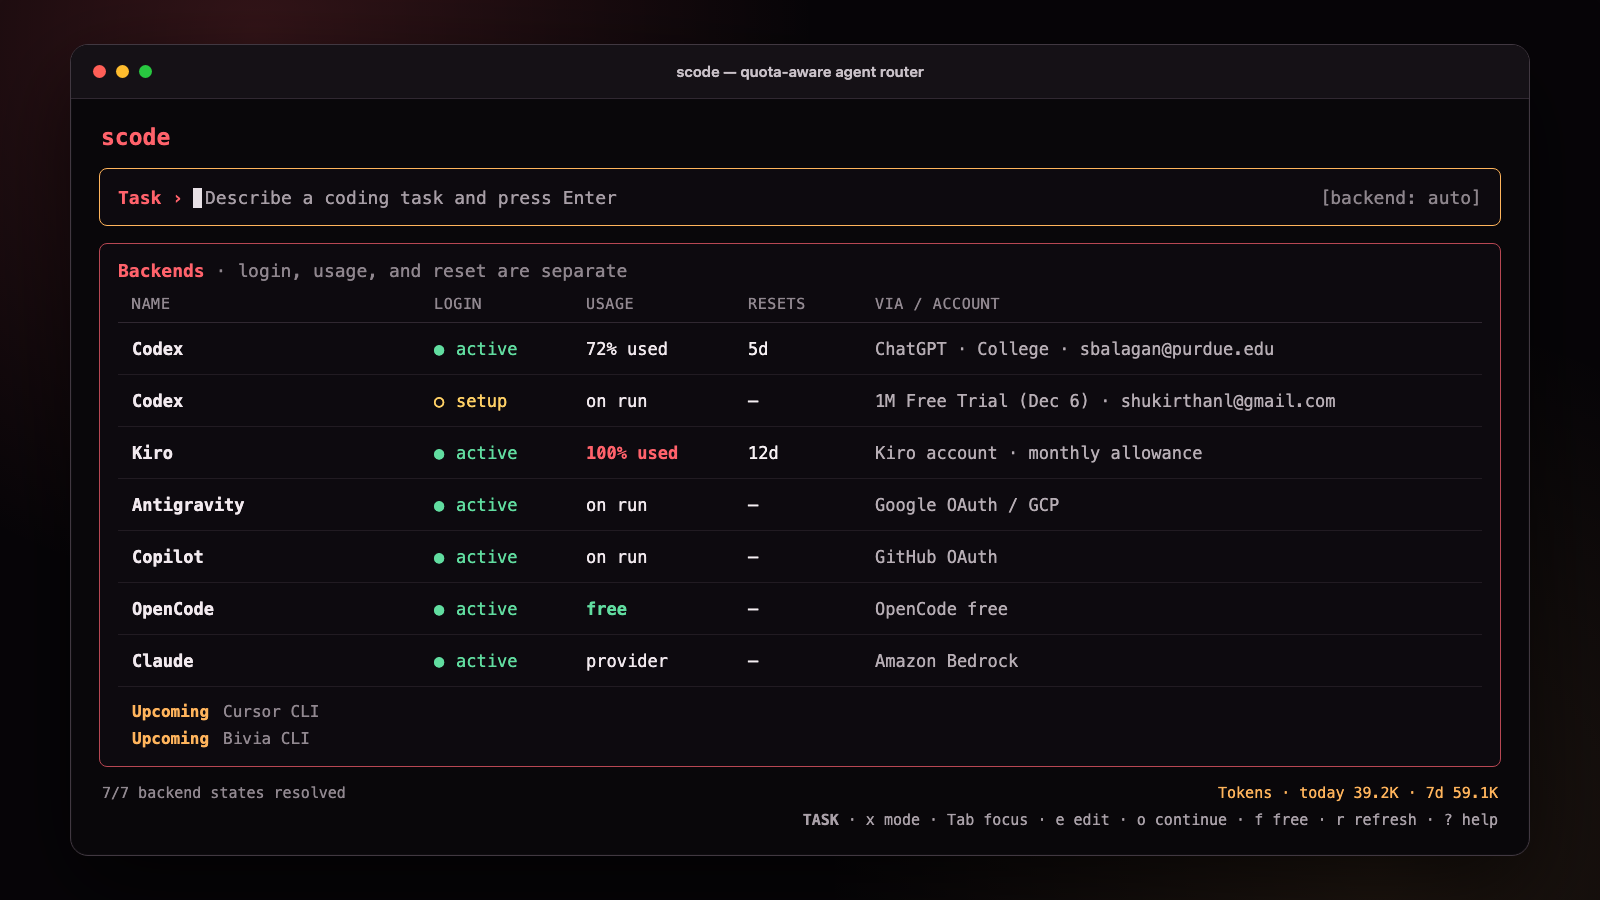
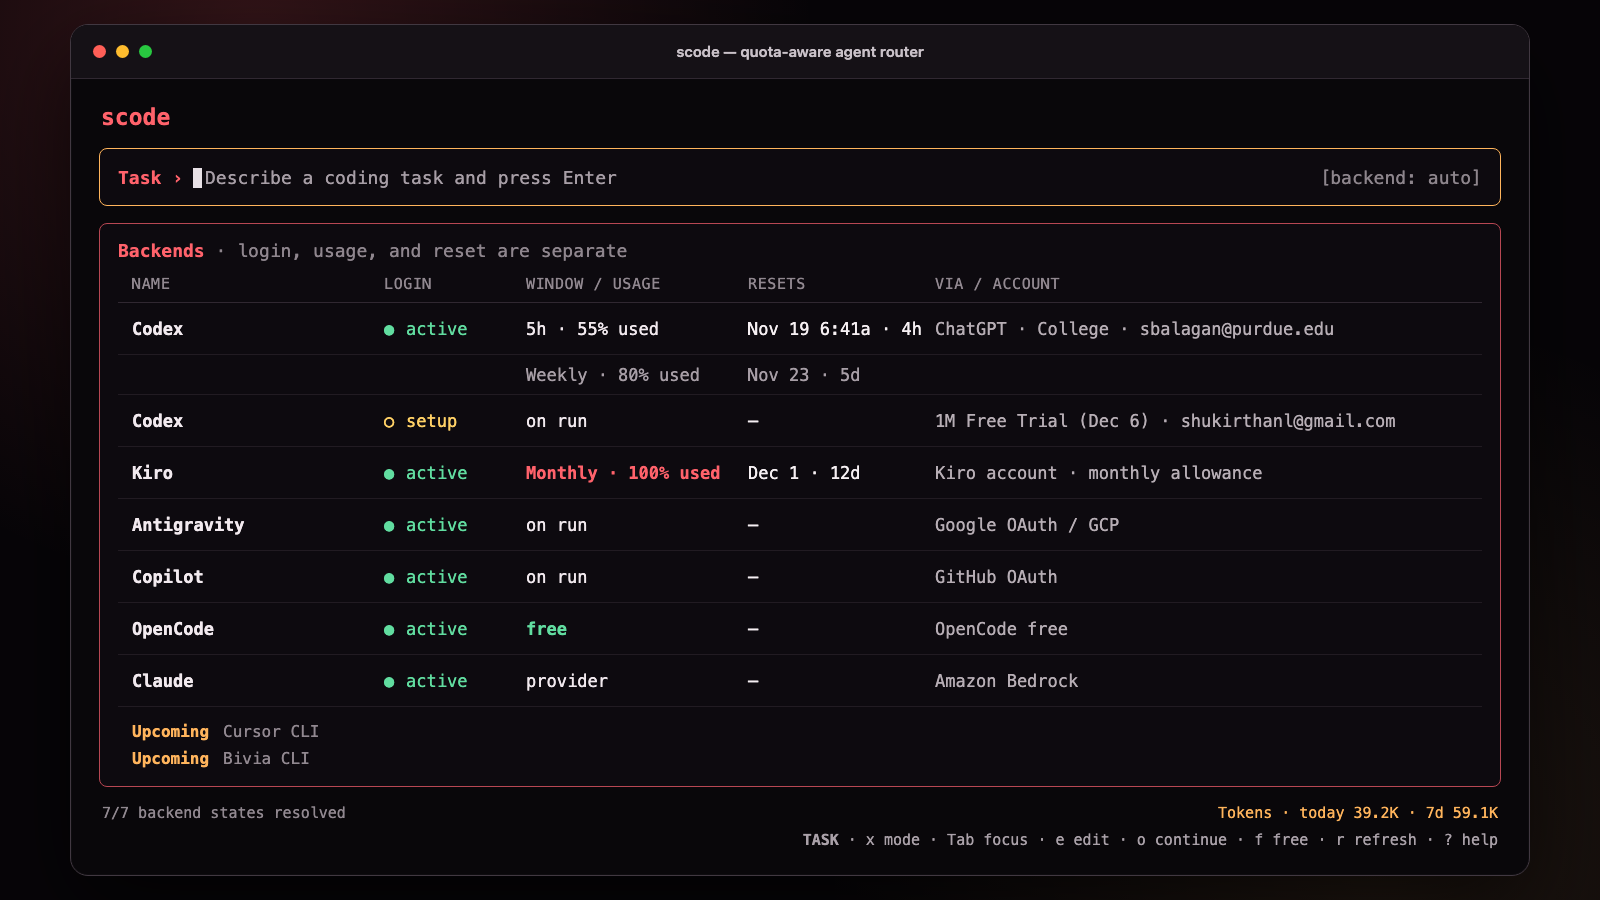
Show quota window reset dates

diff --git a/src/tui/BackendsPane.tsx b/src/tui/BackendsPane.tsx
@@ -1,17 +1,8 @@
 import React from 'react';
 import { Box, Text } from 'ink';
 import type { BackendId, BackendSnapshot } from '../core/types.js';
+import { displayQuotaWindows } from '../core/quotaDisplay.js';
 import type { TuiTheme } from './theme.js';
-
-function resetLabel(resetsAt: string | null): string {
-  if (!resetsAt) return '';
-  const ms = Date.parse(resetsAt) - Date.now();
-  if (Number.isNaN(ms)) return '';
-  if (ms <= 0) return 'reset';
-  const hours = Math.floor(ms / 3_600_000);
-  const minutes = Math.floor((ms % 3_600_000) / 60_000);
-  return hours > 0 ? `${hours}h${minutes > 0 ? `${minutes}m` : ''}` : `${Math.max(1, minutes)}m`;
-}
 
 function usageLabel(backend: BackendSnapshot, used: number | null): string {
   if (backend.status === 'disabled') return '—';
@@ -34,20 +25,25 @@ export function BackendsPane({ backends, theme, wide = false, selectedBackend }:
   wide?: boolean;
   selectedBackend?: BackendId;
 }) {
-  const compact = !wide;
+  // A full-width pane can still be too narrow for five readable columns.
+  // Fall back to the deliberately stacked layout instead of letting Ink wrap
+  // provider/account text at arbitrary points.
+  const terminalColumns = process.stdout.columns || 80;
+  const compact = !wide || terminalColumns < 110;
   return (
     <Box borderStyle="round" borderColor={theme.border} flexDirection="column" paddingX={1} width={wide ? '100%' : '50%'}>
       <Text bold color={theme.primary}>Backends <Text dimColor>· login and usage are separate</Text></Text>
       <Text dimColor>{compact
-        ? `  ${'Name'.padEnd(13)} ${'Login'.padEnd(8)} Usage / reset`
-        : `  ${'Name'.padEnd(16)} ${'Login'.padEnd(12)} ${'Usage'.padEnd(9)} ${'Resets'.padEnd(8)} Via / account`}</Text>
+        ? `  ${'Name'.padEnd(13)} ${'Login'.padEnd(8)} Window / usage / reset`
+        : `  ${'Name'.padEnd(14)} ${'Login'.padEnd(10)} ${'Window / usage'.padEnd(15)} ${'Resets'.padEnd(20)} Via / account`}</Text>
       {backends.map((backend) => {
         const used = backend.quota.remainingFraction === null ? null : 1 - backend.quota.remainingFraction;
         const remaining = usageLabel(backend, used);
+        const windows = displayQuotaWindows(backend);
+        const firstWindow = windows[0];
         const color = backend.status === 'disabled' ? theme.disabled
           : backend.status === 'available' ? theme.success
             : backend.status === 'cooling-down' ? theme.cooling : theme.warning;
-        const reset = resetLabel(backend.quota.resetsAt);
         const context = backend.id === 'kiro' ? 'monthly'
           : backend.status === 'disabled' ? backend.note : undefined;
         const auth = [backend.authProvider, backend.accountLabel, context].filter(Boolean).join(' · ');
@@ -58,16 +54,24 @@ export function BackendsPane({ backends, theme, wide = false, selectedBackend }:
             {compact ? (
               <>
                 <Text color={selected ? theme.accent : color}>
-                  {selected ? '› ' : '  '}{name.slice(0, 13).padEnd(13)} {loginLabel(backend).replace('● ', '').replace('○ ', '').slice(0, 8).padEnd(8)} {remaining} / {reset || '—'}
+                  {selected ? '› ' : '  '}{name.slice(0, 13).padEnd(13)} {loginLabel(backend).replace('● ', '').replace('○ ', '').slice(0, 8).padEnd(8)} {firstWindow ? `${firstWindow.label} ${firstWindow.usage} / ${firstWindow.reset}` : `${remaining} / —`}
                 </Text>
-                <Text dimColor>    {(auth || backend.note || '—').slice(0, Math.max(12, Math.floor((process.stdout.columns || 80) / 2) - 8))}</Text>
+                {windows.slice(1).map((window) => (
+                  <Text key={`${backend.id}-${window.label}`} dimColor>    {' '.repeat(18)}{window.label} {window.usage} / {window.reset}</Text>
+                ))}
+                <Text dimColor>    {(auth || backend.note || '—').slice(0, Math.max(12, Math.floor(terminalColumns / (wide ? 1 : 2)) - 8))}</Text>
               </>
             ) : (
               <Text color={selected ? theme.accent : color}>
-                {selected ? '› ' : '  '}{name.slice(0, 16).padEnd(16)} {loginLabel(backend).padEnd(12)} {remaining.padEnd(9)} {(reset || '—').padEnd(8)}
-                <Text dimColor>{(auth || backend.note || '—').slice(0, 25)}{backend.quota.source === 'manual' ? ' · manual' : ''}</Text>
+                {selected ? '› ' : '  '}{name.slice(0, 14).padEnd(14)} {loginLabel(backend).padEnd(10)} {(firstWindow ? `${firstWindow.label} ${firstWindow.usage}` : remaining).padEnd(15)} {(firstWindow?.reset ?? '—').padEnd(20)}{' '}
+                <Text dimColor>{(auth || backend.note || '—').slice(0, Math.max(14, terminalColumns - 65))}{backend.quota.source === 'manual' ? ' · manual' : ''}</Text>
               </Text>
             )}
+            {!compact && windows.slice(1).map((window) => (
+              <Text key={`${backend.id}-${window.label}`} dimColor>
+                {'  '}{''.padEnd(14)} {''.padEnd(10)} {`${window.label} ${window.usage}`.padEnd(15)} {window.reset.padEnd(20)}
+              </Text>
+            ))}
           </Box>
         );
       })}

diff --git a/src/cli.ts b/src/cli.ts
@@ -24,6 +24,7 @@ import { runLearn } from './core/learn.js';
 import { installForBackend, toolsStatus } from './mcp/install.js';
 import { attachRun, listRunRecords } from './core/runs.js';
 import { section, table, ui } from './format.js';
+import { displayQuotaWindows } from './core/quotaDisplay.js';
 
 export type Command =
   | { name: 'tui' }
@@ -140,19 +141,7 @@ function parseBackendArgs(rest: string[]): Extract<Command, { name: 'backend' }>
   return command;
 }
 
-function relativeReset(value: string | null): string {
-  if (!value) return '—';
-  const ms = Date.parse(value) - Date.now();
-  if (!Number.isFinite(ms)) return '—';
-  if (ms <= 0) return 'now';
-  const minutes = Math.ceil(ms / 60_000);
-  if (minutes < 60) return `${minutes}m`;
-  const hours = Math.floor(minutes / 60);
-  if (hours < 48) return `${hours}h ${minutes % 60}m`;
-  return `${Math.ceil(hours / 24)}d`;
-}
-
-function snapshotRow(item: BackendSnapshot): string[] {
+function snapshotRows(item: BackendSnapshot): string[][] {
   const used = item.quota.remainingFraction === null ? null : 1 - item.quota.remainingFraction;
   const usage = item.status === 'disabled' ? '—'
     : used !== null ? `${Math.round(used * 100)}% used`
@@ -165,7 +154,15 @@ function snapshotRow(item: BackendSnapshot): string[] {
   const context = item.id === 'kiro' ? 'monthly allowance'
     : item.status === 'disabled' ? item.note : undefined;
   const via = [item.authProvider, item.accountLabel, context].filter(Boolean).join(' · ') || item.note || '—';
-  return [item.displayName ?? item.id, login, usage, relativeReset(item.quota.resetsAt), via];
+  const windows = displayQuotaWindows(item);
+  if (windows.length === 0) return [[item.displayName ?? item.id, login, usage, '—', via]];
+  return windows.map((window, index) => [
+    index === 0 ? item.displayName ?? item.id : '',
+    index === 0 ? login : '',
+    `${window.label} ${window.usage}`,
+    window.reset,
+    index === 0 ? via : '',
+  ]);
 }
 
 function parseGraphArgs(rest: string[]): Extract<Command, { name: 'graph' }> {
@@ -469,10 +466,11 @@ export async function runHeadless(command: Exclude<Command, { name: 'tui' }>): P
   const snapshots = await backendSnapshots({ refresh: command.name === 'status' });
   if (command.name === 'status') {
     console.log(section('Backend status', 'login, usage, and reset are separate signals'));
-    const lines = table(['BACKEND', 'LOGIN', 'USAGE', 'RESETS', 'VIA / ACCOUNT'], snapshots.map(snapshotRow));
+    const statusRows = snapshots.flatMap((snapshot) => snapshotRows(snapshot).map((row) => ({ row, loginStatus: snapshot.loginStatus })));
+    const lines = table(['BACKEND', 'LOGIN', 'WINDOW / USAGE', 'RESETS', 'VIA / ACCOUNT'], statusRows.map(({ row }) => row));
     console.log(lines.map((line, index) => {
       if (index < 2) return line;
-      const login = snapshots[index - 2]?.loginStatus;
+      const login = statusRows[index - 2]?.loginStatus;
       return login === 'active' ? ui.good(line) : login === 'logged-out' ? ui.bad(line) : ui.warn(line);
     }).join('\n'));
     console.log(ui.dim('\nUpcoming  Cursor CLI'));

diff --git a/tests/tui-backends.test.ts b/tests/tui-backends.test.ts
@@ -23,8 +23,21 @@ function backend(overrides: Partial<BackendSnapshot> & Pick<BackendSnapshot, 'id
 }
 
 test('backends pane separates login, usage, reset, and provider columns', () => {
+  const originalColumns = process.stdout.columns;
+  Object.defineProperty(process.stdout, 'columns', { value: 140, configurable: true });
   const output = renderToString(React.createElement(BackendsPane, {
     backends: [
+      backend({
+        id: 'codex-a', displayName: 'Codex', loginStatus: 'active', authProvider: 'ChatGPT',
+        quota: {
+          remainingFraction: 0.24, resetsAt: new Date(Date.now() + 5 * 86_400_000).toISOString(),
+          windowMinutes: 10_080, source: 'probe', observedAt: new Date().toISOString(),
+          windows: [
+            { name: 'primary', remainingFraction: 0.74, resetsAt: new Date(Date.now() + 4 * 3_600_000).toISOString(), windowMinutes: 300 },
+            { name: 'secondary', remainingFraction: 0.24, resetsAt: new Date(Date.now() + 5 * 86_400_000).toISOString(), windowMinutes: 10_080 },
+          ],
+        },
+      }),
       backend({ id: 'codex-b', displayName: 'Codex school', loginStatus: 'setup', status: 'unavailable', note: 'no CODEX_HOME configured (JCODE_CODEX_B_HOME)' }),
       backend({ id: 'agy', displayName: 'Antigravity', loginStatus: 'active', quotaMode: 'reactive', authProvider: 'Google OAuth / GCP' }),
       backend({ id: 'opencode', displayName: 'OpenCode', loginStatus: 'active', model: 'opencode/big-pickle', quotaMode: 'provider', authProvider: 'OpenCode free' }),
@@ -32,12 +45,18 @@ test('backends pane separates login, usage, reset, and provider columns', () => 
     ],
     theme: THEMES.ember,
     wide: true,
-  }));
-  assert.match(output, /Name\s+Login\s+Usage\s+Resets/);
+  }), { columns: 140 });
+  Object.defineProperty(process.stdout, 'columns', { value: originalColumns, configurable: true });
+  assert.match(output, /Name\s+Login\s+Window \/ usage\s+Resets/);
+  assert.match(output, /Codex\s+● active\s+5h 26% used/);
+  assert.match(output, /Weekly 76% used/);
   assert.match(output, /Codex school\s+○ setup/);
-  assert.match(output, /Antigravity\s+● active.*on run.*Google OAuth \/ GCP/);
-  assert.match(output, /OpenCode\s+● active.*free.*OpenCode free/);
-  assert.match(output, /Claude\s+● active.*provider.*Amazon Bedrock/);
+  assert.match(output, /Antigravity\s+● active.*on run/);
+  assert.match(output, /Google OAuth \/ GCP/);
+  assert.match(output, /OpenCode\s+● active.*free/);
+  assert.match(output, /OpenCode free/);
+  assert.match(output, /Claude\s+● active.*provider/);
+  assert.match(output, /Amazon Bedrock/);
   assert.match(output, /Upcoming · Cursor CLI/);
   assert.match(output, /Upcoming · Bivia CLI/);
   assert.doesNotMatch(output, /UNKNOWN/);

diff --git a/src/core/quotaDisplay.ts b/src/core/quotaDisplay.ts
@@ -1,0 +1,65 @@
+import type { BackendSnapshot } from './types.js';
+
+export interface DisplayQuotaWindow {
+  label: string;
+  usage: string;
+  reset: string;
+}
+
+function windowLabel(name: string | undefined, minutes: number | null | undefined): string {
+  if (minutes === 300) return '5h';
+  if (minutes === 10_080) return 'Weekly';
+  if (minutes === 43_200 || minutes === 44_640) return 'Monthly';
+  if (!name) return 'Usage';
+  if (name.toLowerCase() === 'primary') return 'Primary';
+  if (name.toLowerCase() === 'secondary') return 'Secondary';
+  return name.charAt(0).toUpperCase() + name.slice(1);
+}
+
+/** Local date plus useful relative time: `Nov 23 · 5d` or `Nov 19 6:41a · 4h`. */
+export function formatQuotaReset(resetsAt: string | null, now = new Date()): string {
+  if (!resetsAt) return '—';
+  const reset = new Date(resetsAt);
+  const ms = reset.getTime() - now.getTime();
+  if (!Number.isFinite(ms)) return '—';
+  if (ms <= 0) return 'reset due';
+
+  const date = reset.toLocaleDateString([], {
+    month: 'short',
+    day: 'numeric',
+    ...(reset.getFullYear() === now.getFullYear() ? {} : { year: 'numeric' }),
+  });
+  const minutes = Math.max(1, Math.ceil(ms / 60_000));
+  const relative = minutes < 60 ? `${minutes}m`
+    : minutes < 1_440 ? `${Math.floor(minutes / 60)}h`
+      : `${Math.ceil(minutes / 1_440)}d`;
+  const time = reset.toLocaleTimeString([], { hour: 'numeric', minute: '2-digit' })
+    .replace(' AM', 'a')
+    .replace(' PM', 'p');
+  return `${date}${minutes < 1_440 ? ` ${time}` : ''} · ${relative}`;
+}
+
+function usageText(remainingFraction: number): string {
+  return `${Math.round((1 - remainingFraction) * 100)}% used`;
+}
+
+/** Every real quota window for display; Codex normally returns 5h + weekly. */
+export function displayQuotaWindows(backend: BackendSnapshot, now = new Date()): DisplayQuotaWindow[] {
+  if (backend.quota.windows && backend.quota.windows.length > 0) {
+    return [...backend.quota.windows]
+      .sort((a, b) => a.windowMinutes - b.windowMinutes)
+      .map((window) => ({
+        label: windowLabel(window.name, window.windowMinutes),
+        usage: usageText(window.remainingFraction),
+        reset: formatQuotaReset(window.resetsAt, now),
+      }));
+  }
+  if (backend.quota.remainingFraction !== null) {
+    return [{
+      label: windowLabel(undefined, backend.quota.windowMinutes),
+      usage: usageText(backend.quota.remainingFraction),
+      reset: formatQuotaReset(backend.quota.resetsAt, now),
+    }];
+  }
+  return [];
+}

diff --git a/tests/quota-display.test.ts b/tests/quota-display.test.ts
@@ -1,0 +1,30 @@
+import test from 'node:test';
+import assert from 'node:assert/strict';
+import { displayQuotaWindows, formatQuotaReset } from '../dist/core/quotaDisplay.js';
+import type { BackendSnapshot } from '../dist/core/types.js';
+
+test('quota display: reset includes a local date and relative duration', () => {
+  const now = new Date(2026, 10, 19, 2, 0, 0);
+  assert.equal(formatQuotaReset(new Date(2026, 10, 19, 6, 30, 0).toISOString(), now), 'Nov 19 6:30a · 4h');
+  assert.equal(formatQuotaReset(new Date(2026, 10, 24, 2, 0, 0).toISOString(), now), 'Nov 24 · 5d');
+  assert.equal(formatQuotaReset(null, now), '—');
+});
+
+test('quota display: Codex primary and secondary windows become 5h and Weekly', () => {
+  const now = new Date(2026, 10, 19, 2, 0, 0);
+  const backend: BackendSnapshot = {
+    id: 'codex-a', displayName: 'Codex', loginStatus: 'active', status: 'available', model: 'default', cliPresent: true,
+    quota: {
+      remainingFraction: 0.24, resetsAt: new Date(2026, 10, 24, 2).toISOString(), windowMinutes: 10_080,
+      source: 'probe', observedAt: now.toISOString(),
+      windows: [
+        { name: 'primary', remainingFraction: 0.74, resetsAt: new Date(2026, 10, 19, 6, 30).toISOString(), windowMinutes: 300 },
+        { name: 'secondary', remainingFraction: 0.24, resetsAt: new Date(2026, 10, 24, 2).toISOString(), windowMinutes: 10_080 },
+      ],
+    },
+  };
+  assert.deepEqual(displayQuotaWindows(backend, now), [
+    { label: '5h', usage: '26% used', reset: 'Nov 19 6:30a · 4h' },
+    { label: 'Weekly', usage: '76% used', reset: 'Nov 24 · 5d' },
+  ]);
+});

diff --git a/README.md b/README.md
@@ -127,10 +127,11 @@ The home screen shows compact token totals for today and the last seven days;
 press `t` for per-backend and daily detail. Cursor CLI and Bivia CLI are listed
 separately as upcoming integrations.
 
-Backend rows separate login state, usage, reset time, and provider. Codex reset
-windows remain visible; Kiro is identified as a calendar-month allowance. Add
-your own local label or account hint (an email or handle is fine) without
-changing any vendor credential:
+Backend rows separate login state, usage, reset time, and provider. Codex shows
+its 5-hour and weekly windows independently, with both a local reset date and a
+relative time; Kiro shows its calendar-month reset. Backends without a useful
+reset show `—`. Add your own local label or account hint (an email or handle is
+fine) without changing any vendor credential:
 
 ```sh
 scode backend set codex-a --label "Codex personal" --account me@example.com
